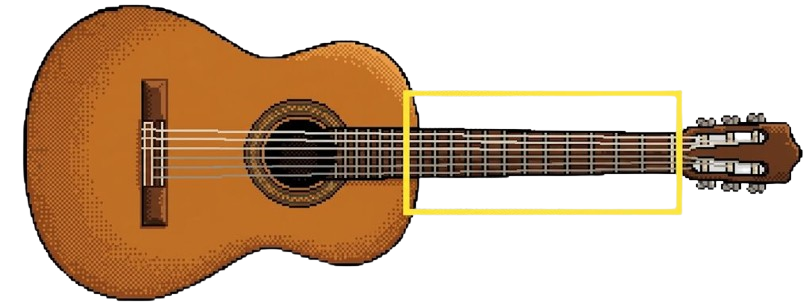
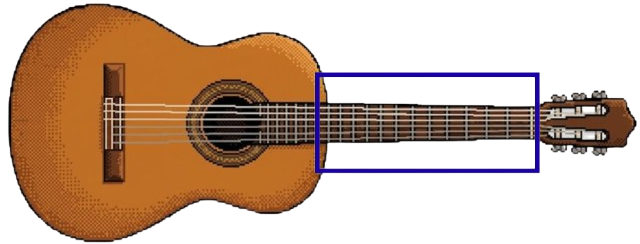
VISUAL BETTER

Changed region(s): [[0.0, 0.0, 1.0, 1.0], [0.0938, 0.5738, 0.125, 0.6025]]

diff --git a/templates/song-practice.html b/templates/song-practice.html
@@ -15,7 +15,7 @@
 <body class="bg-stone-100 h-screen flex flex-col">
 
     <header class="bg-white p-4 shadow-sm flex justify-between items-center z-10">
-        <button onclick="toggleSidebar()" class="flex items-center gap-2 px-5 py-2 bg-yellow-500 text-white rounded-xl font-bold hover:bg-yellow-600 transition-all shadow-md">
+        <button onclick="toggleSidebar()" class="flex items-center gap-2 px-5 py-2 bg-amber-600 text-white rounded-xl font-bold hover:bg-amber-700 transition-all shadow-md">
             <span>☰</span> Open Song Menu
         </button>
         <div id="active-song" class="text-stone-800 font-bold text-lg">No song selected</div>
@@ -24,66 +24,69 @@
         </div> 
     </header>
 
-    <div id="instruction-banner-container" class="py-4 flex justify-center px-8">
-        <div id="instruction-banner" class="bg-white px-8 py-4 rounded-[2rem] border-t-4 border-yellow-500 shadow-xl flex items-center gap-6 max-w-2xl transition-all">
-            <p class="text-stone-700 font-bold text-base">
-                Place the guitar neck inside the yellow box, like this:
-            </p>
-            <img src="{{ url_for('static', filename='images/calibration-example.jpeg') }}" alt="Calibration example" class="h-16 object-contain rounded-lg flex-shrink-0">
+    <div class="py-3 px-8 flex gap-8">
+        <div class="w-80 flex-shrink-0"></div>
+        <div class="flex-1 flex justify-center">
+            <div id="instruction-banner" class="flex items-center gap-6 transition-all">
+                <p class="text-stone-600 font-bold text-2xl whitespace-nowrap">
+                    Place the guitar neck inside the blue box, like this:
+                </p>
+                <img src="{{ url_for('static', filename='images/calibration-example.png') }}" alt="Calibration example" class="h-24 object-contain rounded-xl flex-shrink-0">
+            </div>
         </div>
     </div>
 
     <div class="flex flex-1 px-8 pt-4 pb-8 gap-8 min-h-0">
-        
-        <aside class="w-72 flex flex-col gap-4">
-            <div class="bg-white p-6 rounded-[2.5rem] shadow-xl border-t-8 border-yellow-500 h-full flex flex-col">
-                <h4 id="sidebar-title" class="text-center font-black text-stone-400 uppercase text-xs tracking-[0.2em] mb-6">Setup Process</h4>
-                
-                <div id="setup-controls" class="space-y-4">
-                    <div class="text-center space-y-2 mb-3">
-                        <p class="text-stone-500 text-xs">Make sure the guitar neck is straight and fully inside the box</p>
-                        <p class="text-stone-700 font-bold text-xs">Follow these steps:</p>
-                        <ul class="text-stone-500 text-xs text-left space-y-1 pl-3">
+
+        <aside class="w-80 flex flex-col gap-4">
+            <div class="bg-white p-8 rounded-[3rem] shadow-xl border-t-8 border-amber-500 h-full flex flex-col items-center">
+                <h4 id="sidebar-title" class="text-center font-black text-stone-400 uppercase text-sm tracking-[0.2em] mb-6">
+                    Setup Process
+                </h4>
+
+                <div id="setup-controls" class="w-full space-y-3">
+                    <div class="text-center space-y-2 mb-2">
+                        <p class="text-stone-500 text-sm">Make sure the guitar neck is straight and fully inside the box</p>
+                        <p class="text-stone-700 font-bold text-sm">Follow these steps:</p>
+                        <ul class="text-stone-500 text-sm text-left space-y-1 pl-4">
                             <li>• Press C to lock the neck</li>
                             <li>• If the frets look good, press S</li>
                             <li>• When you're ready, press START</li>
                         </ul>
                     </div>
-                    <div class="space-y-2">
-                        <button onclick="sendCmd('c')" class="w-full py-5 bg-red-600 text-white rounded-2xl font-black text-xl hover:bg-red-700 transition-all shadow-lg active:scale-95">
-                            LOCK NECK (C)
-                        </button>
-                        <button onclick="sendCmd('r')" class="w-full py-3 bg-stone-100 text-stone-500 rounded-2xl font-bold hover:bg-stone-200 transition-all text-sm">
-                            RESET (R)
-                        </button>
-                    </div>
+                    <button onclick="sendCmd('c')" class="w-full py-4 bg-[#CC4433] text-white rounded-xl font-black text-xl hover:brightness-110 transition-all shadow-lg active:scale-95 uppercase">
+                        LOCK NECK (C)
+                    </button>
 
-                    <div class="h-px bg-stone-100 my-4"></div>
+                    <button onclick="sendCmd('r')" class="w-full py-2 bg-stone-100 text-stone-500 rounded-xl font-bold hover:bg-stone-200 transition-all text-sm uppercase">
+                        RESET (R)
+                    </button>
 
-                    <div class="space-y-2">
-                        <button onclick="sendCmd('s')" class="w-full py-5 bg-amber-500 text-white rounded-2xl font-black text-xl hover:bg-amber-600 transition-all shadow-lg active:scale-95">
-                            LOCK STRINGS (S)
-                        </button>
-                        <button onclick="sendCmd('x')" class="w-full py-3 bg-stone-100 text-stone-500 rounded-2xl font-bold hover:bg-stone-200 transition-all text-sm">
-                            CLEAR (X)
-                        </button>
-                    </div>
+                    <div class="h-px bg-stone-100 my-2"></div>
+
+                    <button onclick="sendCmd('s')" class="w-full py-4 bg-[#E69940] text-white rounded-xl font-black text-xl hover:brightness-110 transition-all shadow-lg active:scale-95 uppercase">
+                        LOCK STRINGS (S)
+                    </button>
+
+                    <button onclick="sendCmd('x')" class="w-full py-2 bg-stone-100 text-stone-500 rounded-xl font-bold hover:bg-stone-200 transition-all text-sm uppercase">
+                        CLEAR (X)
+                    </button>
                 </div>
 
-                <div id="play-controls" class="hidden flex-1 flex flex-col items-center justify-center space-y-6">
+                <div id="play-controls" class="hidden w-full flex-1 flex flex-col items-center justify-center space-y-6">
                     <div class="text-center">
                         <p class="text-stone-400 font-bold text-sm uppercase tracking-widest mb-1">Playing</p>
-                        <p id="playing-song-name" class="text-2xl font-black text-yellow-600 leading-tight">-</p>
+                        <p id="playing-song-name" class="text-2xl font-black text-amber-600 leading-tight">-</p>
                     </div>
-                    
-                    <div class="bg-stone-100 w-full rounded-2xl p-6 text-center shadow-inner border-2 border-stone-200">
-                        <p class="text-xs font-bold text-stone-400 uppercase tracking-widest mb-2">Current Chord</p>
-                        <p id="current-chord-display" class="text-6xl font-black text-stone-800">Ready</p>
+
+                    <div class="bg-white w-full rounded-3xl p-8 text-center border-2 border-amber-50 shadow-inner">
+                        <p class="text-xs font-black text-stone-400 uppercase tracking-widest mb-4">Current Chord</p>
+                        <p id="current-chord-display" class="text-7xl font-black text-amber-600">Ready</p>
                     </div>
                 </div>
 
-                <div class="mt-auto pt-6 border-t border-stone-50">
-                    <button id="start-btn" onclick="startPractice()" disabled class="w-full py-6 bg-stone-300 text-white rounded-2xl font-black text-2xl cursor-not-allowed transition-all shadow-xl uppercase tracking-tighter">
+                <div class="mt-auto w-full pt-6">
+                    <button id="start-btn" onclick="startPractice()" disabled class="w-full py-4 bg-stone-300 text-white rounded-xl font-black text-xl cursor-not-allowed transition-all shadow-xl uppercase">
                         START
                     </button>
                 </div>
@@ -92,8 +95,8 @@
 
         <div class="flex-1 flex flex-col gap-4"> 
     
-            <div id="lyric-container" class="hidden opacity-0 transition-opacity duration-500 bg-white p-6 rounded-3xl shadow-xl border-b-4 border-yellow-500 text-center">
-                <p id="section-text" class="text-sm font-bold text-yellow-600 uppercase tracking-widest mb-2"></p>
+            <div id="lyric-container" class="hidden opacity-0 transition-opacity duration-500 bg-white p-6 rounded-3xl shadow-xl border-b-4 border-amber-500 text-center">
+                <p id="section-text" class="text-sm font-bold text-amber-600 uppercase tracking-widest mb-2"></p>
                 <p id="lyric-text" class="text-3xl font-black italic uppercase text-stone-800"></p>
             </div>
         
@@ -112,12 +115,12 @@
 
     <aside id="song-sidebar" class="fixed top-0 left-0 h-full w-80 bg-white shadow-2xl z-50 sidebar-transition sidebar-hidden flex flex-col">
         <div class="p-8 border-b flex justify-between items-center">
-            <h2 class="text-2xl font-black text-yellow-600">SONGS</h2>
+            <h2 class="text-2xl font-black text-amber-600">SONGS</h2>
             <button onclick="toggleSidebar()" class="text-stone-300 hover:text-stone-900 text-3xl">&times;</button>
         </div>
         <div class="flex-1 overflow-y-auto p-4 space-y-2">
-            <button onclick="selectSong('Let It Be')" class="w-full text-left p-5 rounded-2xl hover:bg-yellow-50 font-bold text-stone-800 transition-all">Let It Be</button>
-            <button onclick="selectSong('Wonderwall')" class="w-full text-left p-5 rounded-2xl hover:bg-yellow-50 font-bold text-stone-800 transition-all">Wonderwall</button>
+            <button onclick="selectSong('Let It Be')" class="w-full text-left p-5 rounded-2xl hover:bg-amber-50 font-bold text-stone-800 transition-all">Let It Be</button>
+            <button onclick="selectSong('Wonderwall')" class="w-full text-left p-5 rounded-2xl hover:bg-amber-50 font-bold text-stone-800 transition-all">Wonderwall</button>
         </div>
     </aside>
 
@@ -160,7 +163,7 @@
             const setupControls = document.getElementById('setup-controls');
             const playControls = document.getElementById('play-controls');
             const sidebarTitle = document.getElementById('sidebar-title');
-            const instructionBannerContainer = document.getElementById('instruction-banner-container');
+            const instructionBannerContainer = document.getElementById('instruction-banner');
 
             if (!isPlaying) {
                 if (currentSong !== null && areStringsCalibrated) {
@@ -257,7 +260,7 @@
             const setupControls = document.getElementById('setup-controls');
             const playControls = document.getElementById('play-controls');
             const sidebarTitle = document.getElementById('sidebar-title');
-            const instructionBannerContainer = document.getElementById('instruction-banner-container');
+            const instructionBannerContainer = document.getElementById('instruction-banner');
 
             isPlaying = false;
 

diff --git a/templates/chords-training.html b/templates/chords-training.html
@@ -27,12 +27,15 @@
         </div>
     </header>
 
-    <div class="py-4 flex justify-center px-8">
-        <div id="instruction-banner" class="bg-white px-8 py-4 rounded-[2rem] border-t-4 border-amber-500 shadow-xl flex items-center gap-6 max-w-2xl transition-all">
-            <p class="text-stone-700 font-bold text-base">
-                Place the guitar neck inside the yellow box, like this:
-            </p>
-            <img src="{{ url_for('static', filename='images/calibration-example.jpeg') }}" alt="Calibration example" class="h-16 object-contain rounded-lg flex-shrink-0">
+    <div class="py-3 px-8 flex gap-8">
+        <div class="w-80 flex-shrink-0"></div>
+        <div class="flex-1 flex justify-center">
+            <div id="instruction-banner" class="flex items-center gap-6 transition-all">
+                <p class="text-stone-600 font-bold text-2xl whitespace-nowrap">
+                    Place the guitar neck inside the blue box, like this:
+                </p>
+                <img src="{{ url_for('static', filename='images/calibration-example.png') }}" alt="Calibration example" class="h-24 object-contain rounded-xl flex-shrink-0">
+            </div>
         </div>
     </div>
 
@@ -40,35 +43,35 @@
         
         <aside class="w-80 flex flex-col gap-4">
             <div class="bg-white p-8 rounded-[3rem] shadow-xl border-t-8 border-amber-500 h-full flex flex-col items-center">
-                <h4 id="sidebar-title" class="text-center font-black text-stone-400 uppercase text-sm tracking-[0.2em] mb-8">
+                <h4 id="sidebar-title" class="text-center font-black text-stone-400 uppercase text-sm tracking-[0.2em] mb-6">
                     Setup Process
                 </h4>
                 
-                <div id="setup-controls" class="w-full space-y-6">
-                    <div class="text-center space-y-2 mb-4">
+                <div id="setup-controls" class="w-full space-y-3">
+                    <div class="text-center space-y-2 mb-2">
                         <p class="text-stone-500 text-sm">Make sure the guitar neck is straight and fully inside the box</p>
                         <p class="text-stone-700 font-bold text-sm">Follow these steps:</p>
-                        <ul class="text-stone-500 text-xs text-left space-y-1 pl-4">
+                        <ul class="text-stone-500 text-sm text-left space-y-1 pl-4">
                             <li>• Press C to lock the neck</li>
                             <li>• If the frets look good, press S</li>
                             <li>• When you're ready, press START</li>
                         </ul>
                     </div>
-                    <button onclick="sendCmd('c')" class="w-full py-6 bg-[#CC4433] text-white rounded-[2rem] font-black text-2xl hover:brightness-110 transition-all shadow-lg active:scale-95 uppercase">
+                    <button onclick="sendCmd('c')" class="w-full py-4 bg-[#CC4433] text-white rounded-xl font-black text-xl hover:brightness-110 transition-all shadow-lg active:scale-95 uppercase">
                         LOCK NECK (C)
                     </button>
                     
-                    <button onclick="sendCmd('r')" class="w-full py-3 bg-stone-100 text-stone-500 rounded-2xl font-bold hover:bg-stone-200 transition-all text-sm uppercase">
+                    <button onclick="sendCmd('r')" class="w-full py-2 bg-stone-100 text-stone-500 rounded-xl font-bold hover:bg-stone-200 transition-all text-sm uppercase">
                         RESET (R)
                     </button>
         
-                    <div class="h-px bg-stone-100 my-4"></div>
+                    <div class="h-px bg-stone-100 my-2"></div>
         
-                    <button onclick="sendCmd('s')" class="w-full py-6 bg-[#E69940] text-white rounded-[2rem] font-black text-2xl hover:brightness-110 transition-all shadow-lg active:scale-95 uppercase">
+                    <button onclick="sendCmd('s')" class="w-full py-4 bg-[#E69940] text-white rounded-xl font-black text-xl hover:brightness-110 transition-all shadow-lg active:scale-95 uppercase">
                         LOCK STRINGS (S)
                     </button>
                     
-                    <button onclick="sendCmd('x')" class="w-full py-3 bg-stone-100 text-stone-500 rounded-2xl font-bold hover:bg-stone-200 transition-all text-sm uppercase">
+                    <button onclick="sendCmd('x')" class="w-full py-2 bg-stone-100 text-stone-500 rounded-xl font-bold hover:bg-stone-200 transition-all text-sm uppercase">
                         CLEAR (X)
                     </button>
                 </div>
@@ -80,8 +83,8 @@
                     </div>
                 </div>
         
-                <div class="mt-auto w-full pt-8">
-                    <button id="start-btn" onclick="startTraining()" disabled class="w-full py-6 bg-stone-300 text-white rounded-[2rem] font-black text-2xl cursor-not-allowed transition-all shadow-xl uppercase">
+                <div class="mt-auto w-full pt-6">
+                    <button id="start-btn" onclick="startTraining()" disabled class="w-full py-4 bg-stone-300 text-white rounded-xl font-black text-xl cursor-not-allowed transition-all shadow-xl uppercase">
                         START
                     </button>
                 </div>

diff --git a/string_and_frets.py b/string_and_frets.py
@@ -272,16 +272,16 @@ class GuitarNeckTracker:
     def draw_debug(self, frame):
         out = frame.copy()
 
-        # Preview mode only: show yellow ROI before lock/tracking
+        # Preview mode only: show blue ROI before lock/tracking
         if not self.is_tracking or self.refined_quad is None:
             preview_quad = self._rel_roi_to_abs_quad(frame.shape)
             preview_quad = self._clamp_quad_to_frame(preview_quad, frame.shape)
             pt = preview_quad.astype(int)
 
-            cv2.line(out, tuple(pt[0]), tuple(pt[1]), (0, 255, 255), 2)
-            cv2.line(out, tuple(pt[1]), tuple(pt[3]), (0, 255, 255), 2)
-            cv2.line(out, tuple(pt[3]), tuple(pt[2]), (0, 255, 255), 2)
-            cv2.line(out, tuple(pt[2]), tuple(pt[0]), (0, 255, 255), 2)
+            cv2.line(out, tuple(pt[0]), tuple(pt[1]), (255, 0, 0), 2)
+            cv2.line(out, tuple(pt[1]), tuple(pt[3]), (255, 0, 0), 2)
+            cv2.line(out, tuple(pt[3]), tuple(pt[2]), (255, 0, 0), 2)
+            cv2.line(out, tuple(pt[2]), tuple(pt[0]), (255, 0, 0), 2)
             return out
 
         # Tracking mode: do NOT draw yellow preview/search box anymore

diff --git a/GuitarSystem.py b/GuitarSystem.py
@@ -6,7 +6,7 @@ import time
 from songs_data import SONGS
 
 class GuitarSystem:
-    def __init__(self, use_mediapipe=True):
+    def __init__(self, use_mediapipe=False):
         # Tracker
         self.tracker = sf.GuitarNeckTracker()
 
